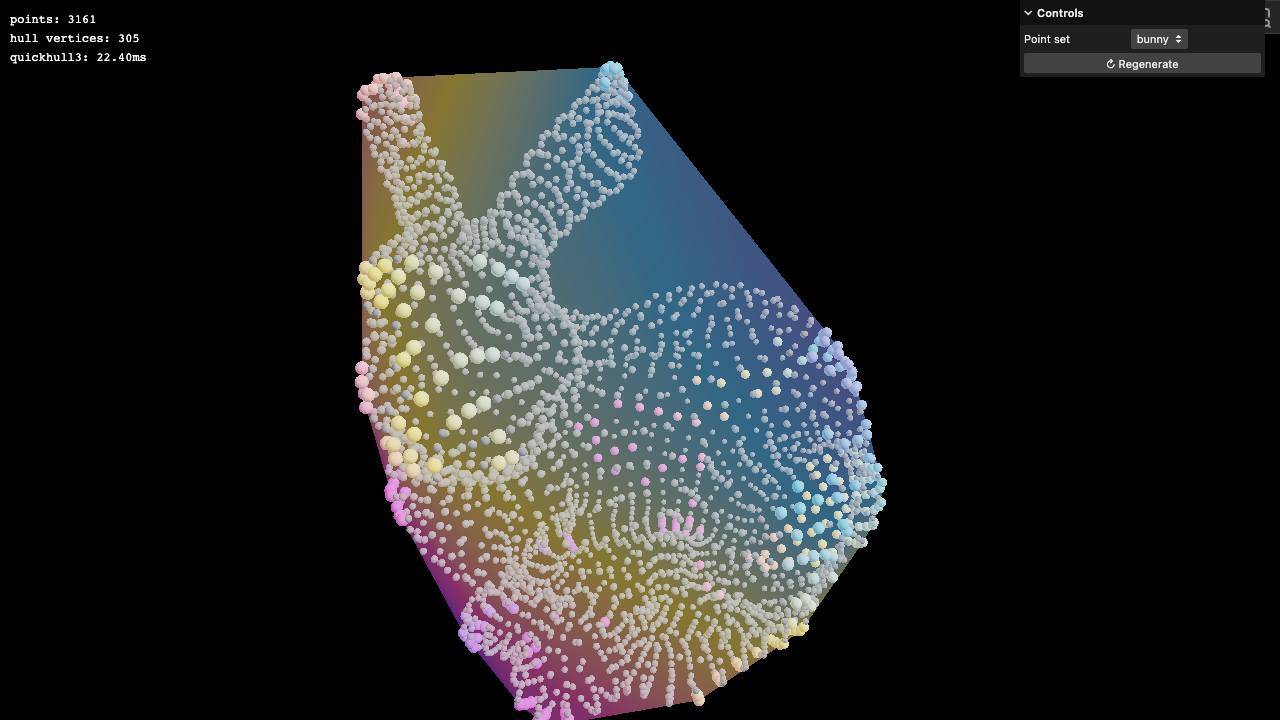
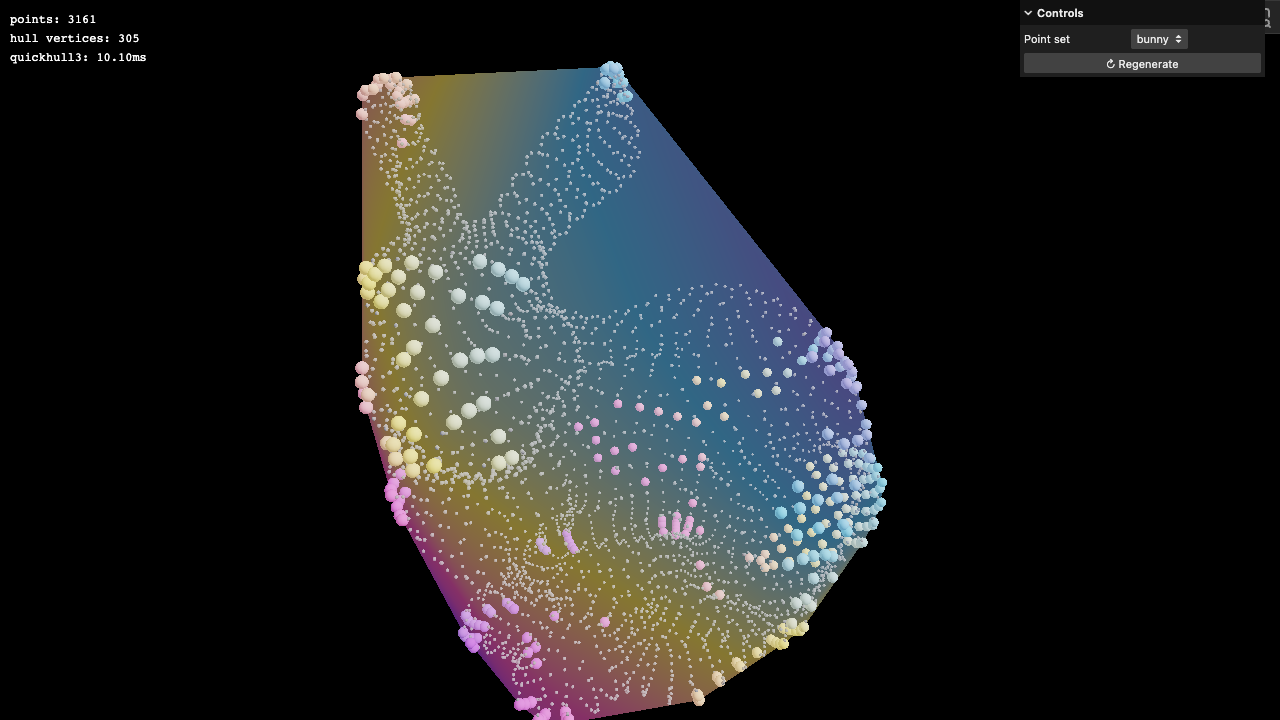
feat: shrink interior points in convex hull example

Changed region(s): [[0.2812, 0.0917, 0.6875, 1.0], [0.3438, 0.4583, 0.375, 0.4889]]

diff --git a/examples/src/example-convex-hull-3d.ts b/examples/src/example-convex-hull-3d.ts
@@ -184,7 +184,7 @@ window.addEventListener('resize', () => {
 
 const sphereGeometry = g.createSphereGeometry(1, 12, 8);
 const HULL_MARKER_RADIUS = 0.03;
-const INNER_MARKER_RADIUS = 0.018;
+const INNER_MARKER_RADIUS = 0.009;
 const HULL_OPACITY = 0.16;
 
 /* ------------------------------------------------------------------ (re)build */
